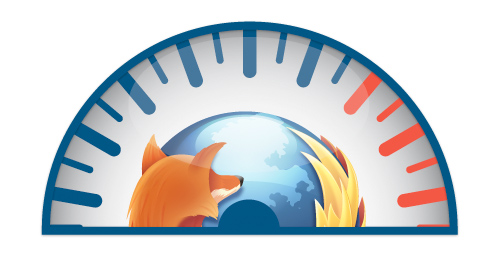
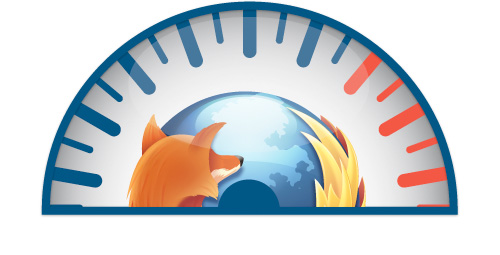
Polish up the Firefox Speed page for Bug 701208
git-svn-id: svn+ssh://svn.mozilla.org/projects/mozilla.com/trunk@98094 4eb1ac78-321c-0410-a911-ec516a8615a5

Changed region(s): [[0.09, 0.0, 0.93, 0.7686], [0.06, 0.3569, 0.93, 0.8784]]

diff --git a/en-US/firefox/speed/index.html b/en-US/firefox/speed/index.html
@@ -10,7 +10,7 @@ EXTRA_HEADERS;
 
 <div id="main-feature">
     <h2>How fast is <span>your Firefox?</span></h2>
-    <p id="intro">The new Firefox is 7 times faster. See the speedometer below to see how yours stacks up.</p>
+    <p id="intro">New Firefox is up to 7 times faster. (That’s a lot!) Check the speedometer to see if yours can keep up.</p>
     <div id="download">
     <script src="/js/download.js"></script>
     <?php
@@ -27,16 +27,33 @@ EXTRA_HEADERS;
     <div id="gauge">
         <img src="<?=$config['static_prefix']?>/img/covehead/speed/needle.png" alt="" id="needle" />
         <div id="gauge-slow">
-            <h4>Slow</h4> <p>Lorem ipsum dolor amet</p>
+            Old Firefox = <em>Sadface</em>
         </div>
         <div id="gauge-fast">
-            <h4>Fast</h4> <p>Lorem ipsum dolor amet</p>
+            New Firefox = <em>Yay!</em>
         </div>
+        <div id="gauge-slow-note">
+            <div class="content">
+            <h4>Seriously?</h4>
+            <p>That just isn’t going to cut it. Stop browsing in the past and <a href="/<?=$lang?>/firefox/">upgrade now!</a></p>
+            </div>
+        </div>
+        <div id="gauge-fast-note">
+            <div class="content">
+            <h4>Now we’re talking!</h4>
+            <p>Feels better, doesn’t it? Welcome to the future of the Web. It’s nice here.</p>
+            </div>
+        </div>
+    </div>
+    <div id="non-fx">
+        <p id="detected">Hey, looks like you’re using %BROWSER%. Why not grab Firefox and get up to speed.</p>
+        <p id="notdetected">Hey, looks like you’re not using Firefox as your browser. Why not grab Firefox and get up to speed.</p>
     </div>
 
 </div>
 
 <?php
+    $latest_firefox = LATEST_FIREFOX_VERSION;
     $extra_footers = <<<EXTRA_FOOTERS
     <script src="{$config['static_prefix']}/js/jquery/jquery-css-transform.js"></script>
     <script src="{$config['static_prefix']}/js/jquery/jquery-animate-css-rotate-scale.js"></script>
@@ -46,6 +63,9 @@ $(document).ready(function() {
     var needle = \$('#needle');
     var gauge = \$('#gauge');
     var angle = 0;
+    var latestVersion = parseInt('{$latest_firefox}'.split('.')[0], 10);
+    var isFirefox = (/\sFirefox/.test(window.navigator.userAgent));
+
 
     \$.easing.easeInOutSine = function (x, t, b, c, d) {
         return -c/2 * (Math.cos(Math.PI*t/d) - 1) + b;
@@ -58,24 +78,20 @@ $(document).ready(function() {
         return c/2 * (-Math.pow(2, -10 * --t) + 2) + b;
     };
 
-    var useTransitions = false;
-    (function() {
-        var div = document.createElement('div');
-        div.innerHTML = '<div style="'
-            + '-webkit-transition: color 1s linear;'
-            + '-moz-transition: color 1s linear;'
-            + '-ms-transition: color 1s linear;'
-            + '-o-transition: color 1s linear;'
-            + '"></div>';
+    function getFirefoxVersion()
+    {
+        var version = 0;
 
-        useTransitions =
-            (div.firstChild.style.webkitTransition !== undefined)
-            || (div.firstChild.style.MozTransition !== undefined)
-            || (div.firstChild.style.msTransition !== undefined)
-            || (div.firstChild.style.OTransition !== undefined);
+        var matches = /Firefox\/([0-9]+).[0-9]+(?:.[0-9]+)?/.exec(
+            navigator.userAgent
+        );
 
-        delete div;
-    })();
+        if (matches !== null && matches.length > 0) {
+            version = parseInt(matches[1], 10);
+        }
+
+        return version;
+    };
 
     function rotate(delta, duration, complete, easing)
     {
@@ -109,14 +125,57 @@ $(document).ready(function() {
         }
     };
 
-    // initial position
-    rotate(-1.5, 10, startWaver, 'linear');
+    if (isFirefox) {
+        // initial position
+        rotate(-1.5, 10, startWaver, 'linear');
 
-    // page load, go to detected speed
-    setTimeout(function() {
-        stopWaver();
-        rotate(-168, 1500, startWaver, 'easeInOutExpo');
-    }, 1500);
+        if (latestVersion > getFirefoxVersion()) {
+            // slow
+            setTimeout(function() {
+                stopWaver();
+                rotate(-29.5, 1000, startWaver, 'easeInOutExpo');
+            }, 1500);
+            \$('#gauge-slow-note').delay(3000).fadeIn('slow');
+        } else {
+            // fast
+            setTimeout(function() {
+                stopWaver();
+                rotate(-168, 1500, startWaver, 'easeInOutExpo');
+            }, 1500);
+            \$('#gauge-fast-note').delay(3000).fadeIn('slow');
+        }
+    } else {
+        gauge.hide();
+
+        var \$nonfx       = \$('#non-fx');
+        var \$detected    = \$('#detected');
+        var \$notdetected = \$('#notdetected');
+
+        var isSafari = /Safari/.test(window.navigator.userAgent);
+        var isChrome = /Chrome/.test(window.navigator.userAgent);
+        var isIE     = /MSIE/.test(window.navigator.userAgent);
+
+        if (isChrome) {
+            \$detected.text(
+                \$detected.text().replace(/%BROWSER%/, 'Google Chrome')
+            );
+            \$notdetected.hide();
+        } else if (isSafari) {
+            \$detected.text(
+                \$detected.text().replace(/%BROWSER%/, 'Safari')
+            );
+            \$notdetected.hide();
+        } else if (isIE) {
+            \$detected.text(
+                \$detected.text().replace(/%BROWSER%/, 'Internet Explorer')
+            );
+            \$notdetected.hide();
+        } else {
+            \$detected.hide();
+        }
+
+        \$nonfx.show();
+    }
 });
     </script>
 EXTRA_FOOTERS;

diff --git a/style/covehead/speed.css b/style/covehead/speed.css
@@ -1,26 +1,31 @@
 /* {{{ General Layout */
 
 #speed #main-feature {
-    margin: 30px 180px;
+    margin: 20px 180px;
 }
 
 #speed #main-feature h2 {
-    margin-bottom: 25px;
+    margin-bottom: 12px;
+}
+
+#speed #main-feature h2 span {
+    font-size: 60px;
 }
 
 #speed #main-feature #intro {
     font-style: italic;
     width: 300px;
     float: left;
-    line-height: 1.2;
+    font-size: 18px;
 }
 
 #speed #download {
     float: right;
+    width: 270px;
 }
 
 #speed #download ul.home-download {
-    width: auto;
+    width: 280px;
     float: right;
 }
 
@@ -53,12 +58,16 @@
     padding-top: 40px;
 }
 
+#speed #non-fx {
+    display: none;
+}
+
 /* }}} */
 /* {{{ Gauge */
 
 #gauge {
     background: url(/img/covehead/speed/gauge-bg.jpg) 50% 0 no-repeat;
-    height: 275px;
+    height: 255px;
     width: 800px;
     margin: 0 auto;
     position: relative;
@@ -71,23 +80,67 @@
 #gauge-fast,
 #gauge-slow {
     position: absolute;
-    width: 160px;
-    top: 170px;
+    width: 180px;
+    top: 230px;
+    color: #ef3b24;
+    font-size: 18px;
 }
 
 #gauge-slow {
-    left: 20px;
+    left: 100px;
     text-align: right;
+    color: #005787;
 }
 
 #gauge-fast {
-    left: 618px;
+    left: 520px;
 }
 
-#gauge-slow p,
-#gauge-fast p {
+#gauge-slow-note p,
+#gauge-fast-note p {
     margin: 0;
+    line-height: 1.3;
 }
+
+#gauge-slow-note h4,
+#gauge-fast-note h4 {
+    font-size: 16px;
+}
+
+#gauge-fast-note,
+#gauge-slow-note {
+    display: none;
+    position: absolute;
+    width: 800px;
+    height: 255px;
+    top: 0;
+    left: 0;
+    font-style: italic;
+}
+
+#gauge-slow-note {
+    background: url(/img/covehead/speed/line-l.png) 63px 70px no-repeat;
+}
+
+#gauge-slow-note .content {
+    width: 170px;
+    position: absolute;
+    bottom: 190px;
+    left: 30px;
+}
+
+#gauge-fast-note {
+    background: url(/img/covehead/speed/line.png) 610px 115px no-repeat;
+}
+
+#gauge-fast-note .content {
+    position: absolute;
+    width: 170px;
+    left: auto;
+    right: 20px;
+    bottom: 145px;
+}
+
 
 #needle {
     -webkit-transform-origin: 173px 30px;
@@ -100,8 +153,16 @@
     transform: rotate(0);
     x-moz-transition: all 500ms linear;
     position: absolute;
-    top: 201px;
-    left: 226px;
+    top: 181px;
+    left: 227px;
+}
+
+/* }}} */
+/* {{{ Non Firefox fallback*/
+
+#non-fx {
+    margin: 0 160px;
+    font-size: 22px;
 }
 
 /* }}} */
